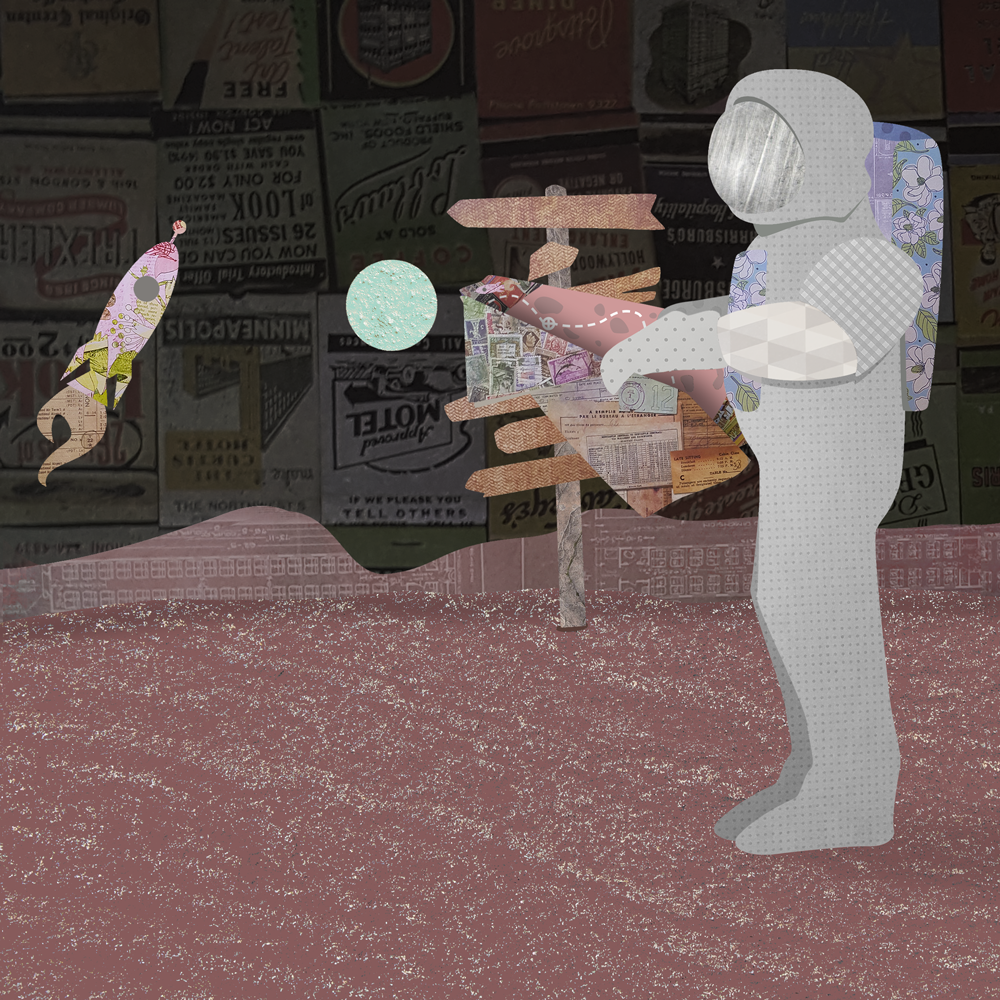
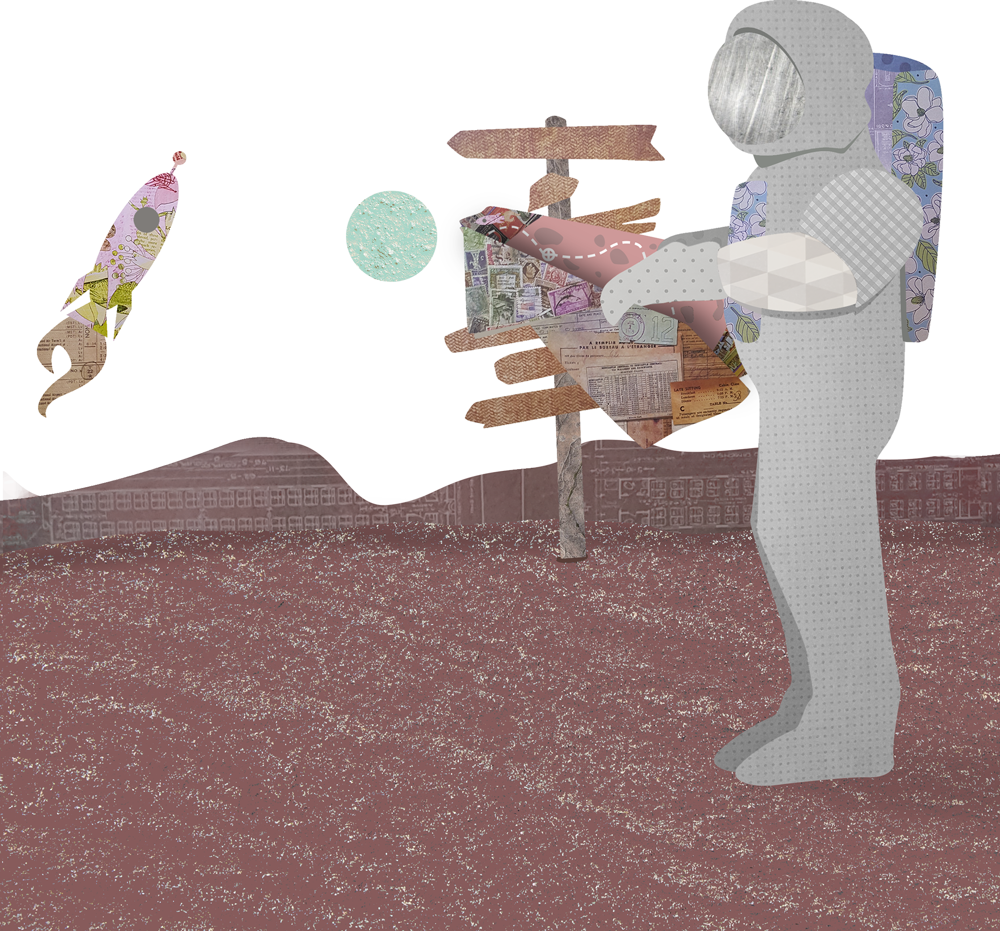
new home image

diff --git a/src/app/home/home.component.css b/src/app/home/home.component.css
@@ -1,11 +1,12 @@
-/*div{
+.container{
 	width: 100%;
 	height:100%;
-}*/
+}
+
 	img {
 		display:block;
-
 		width: 90%;
+		max-width:600px;
 		margin: auto;
 		padding-top:2em;
 		-webkit-touch-callout: none; /* iOS Safari */

diff --git a/src/app/home/home.component.ts b/src/app/home/home.component.ts
@@ -7,6 +7,6 @@ import { Component } from '@angular/core';
 })
 export class HomeComponent {
 
-  home = '../assets/astronaut.png';
+  home = '../assets/astronaut2.png';
 
 }

diff --git a/src/app/home/home.component.html b/src/app/home/home.component.html
@@ -1,3 +1,5 @@
-<div>
-	<img src="{{home}}" />
+<div id="container">
+	<div>
+		<img src="{{home}}" />
+	</div>
 </div>
